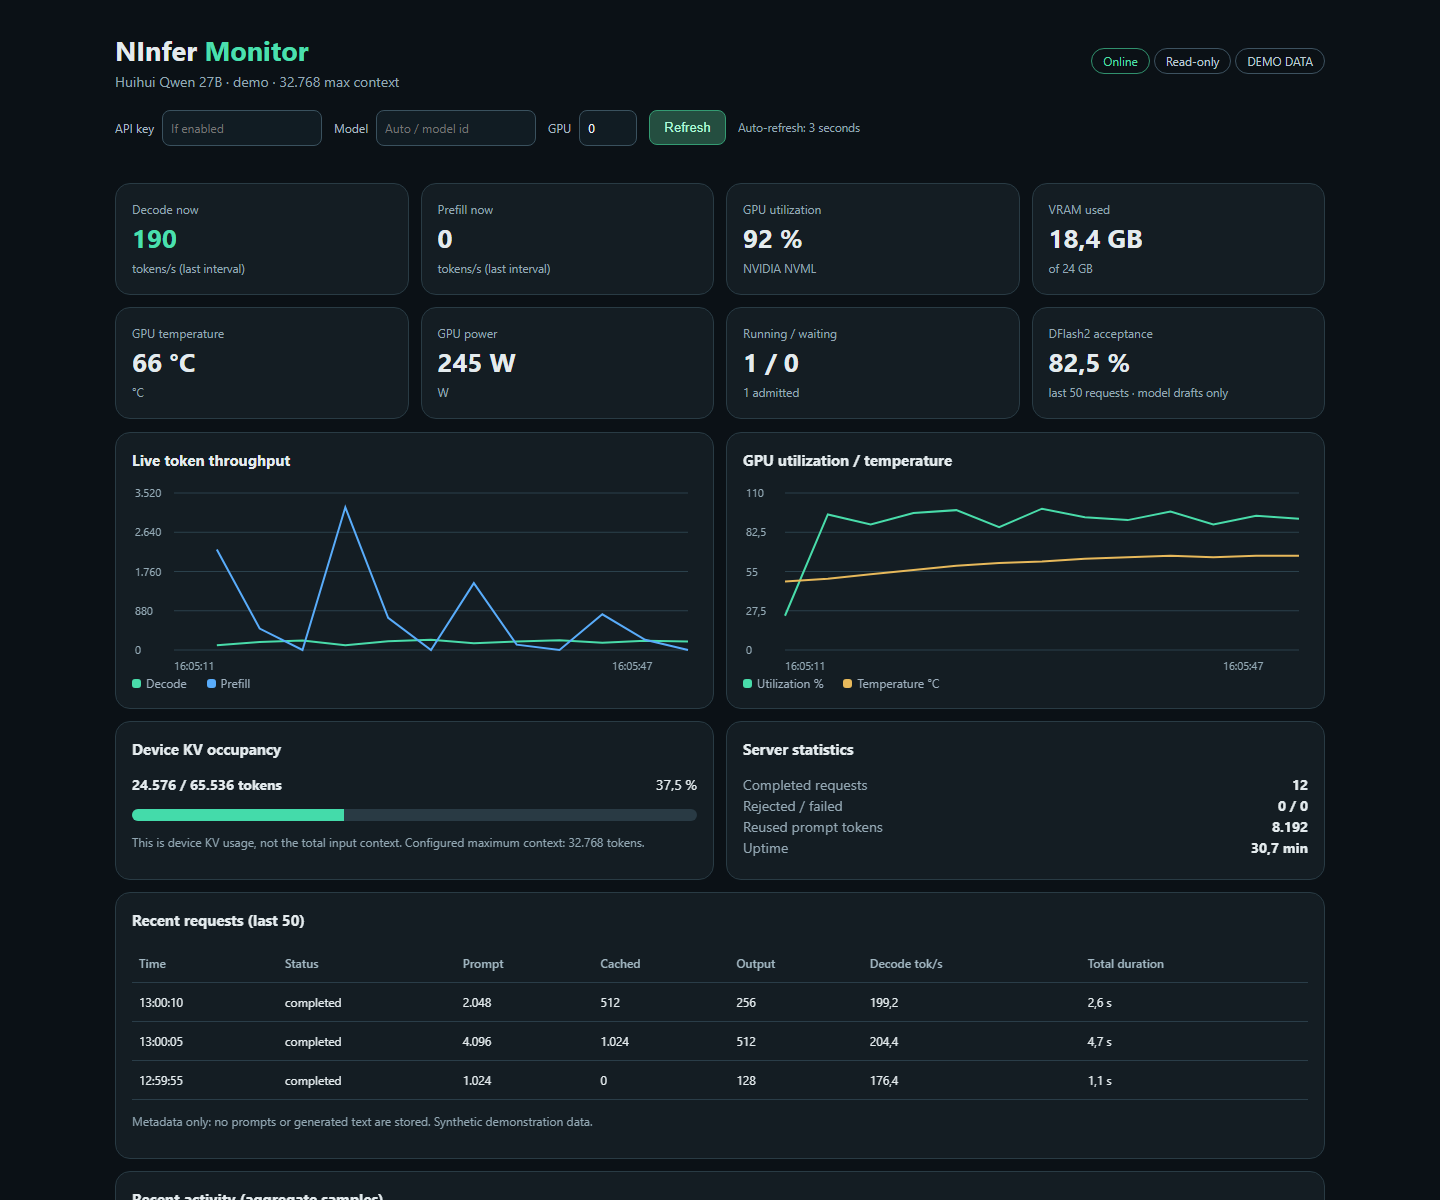
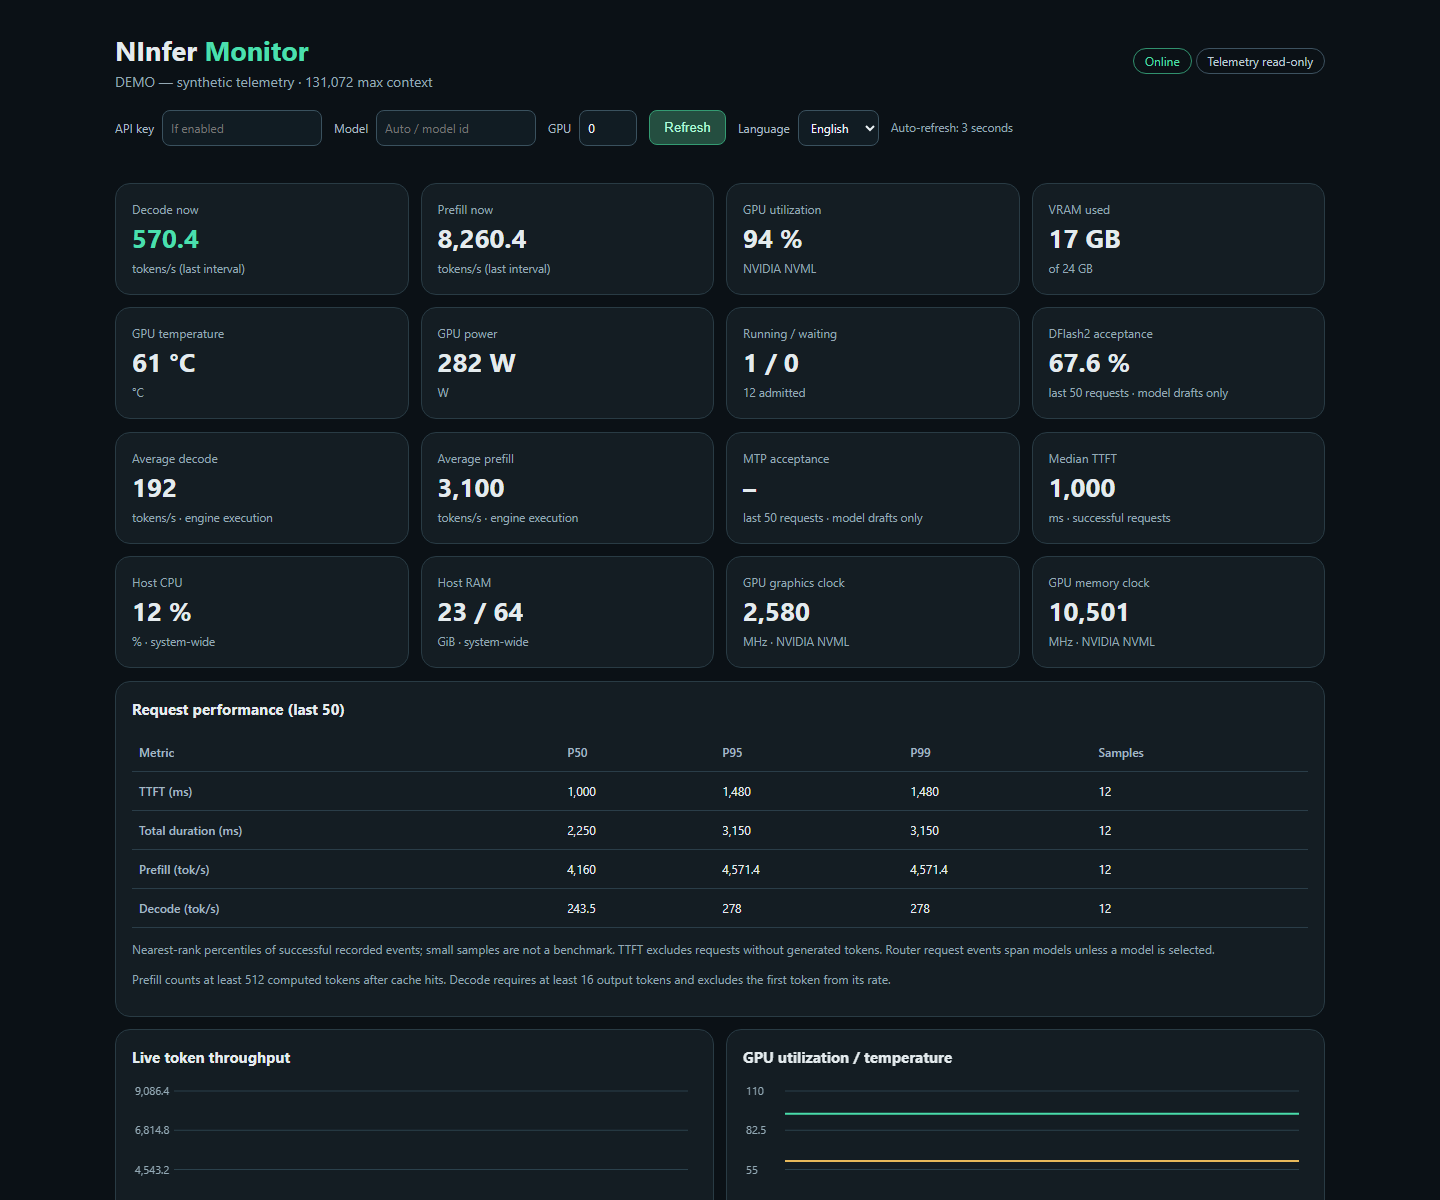
docs: align v0.1.8 model catalog, benchmarks and native monitor

diff --git a/README.md b/README.md
@@ -12,7 +12,7 @@
 
 **[Project website](https://spk-c.github.io/ninfer-all-rtx4090/)** · **[Download Windows binaries](https://github.com/spk-c/ninfer-all-rtx4090/releases)** · [RTX 4090 guide](docs/rtx4090.md) · [Built-in Monitor](#built-in-live-monitoring-dashboard) · [Model artifacts](#supported-models) · [Benchmarks](#rtx-4090-benchmarks) · [Build from source](#build-from-source-windows) · [FAQ](#rtx-4090-local-llm-faq) · [Upstream documentation](docs/README.md)
 
-**Start with a portable binary, no local CUDA compilation needed.** Recorded serving throughput for a Qwen3.8-27B IQ3_S model with DFlash2 on one RTX 4090: **146.6 tok/s median, 215.5 tok/s P90** across 1,831 completed requests. These are workload-specific observations, not guaranteed rates or a comparison with other inference engines. [Measurement details](#real-world-serving).
+**Start with the v0.1.8 portable binary, no local CUDA compilation needed.** Recorded serving throughput for a Qwen3.8-27B IQ3_S model with DFlash2 on one RTX 4090: **146.6 tok/s median, 215.5 tok/s P90** across 1,831 completed requests. These are workload-specific observations, not guaranteed rates or a comparison with other inference engines. [Measurement details](#real-world-serving).
 
 If you use NInfer-all RTX 4090 or want to follow its development, consider starring the repository and sharing your own reproducible results. [Watch releases](https://github.com/spk-c/ninfer-all-rtx4090/releases) · [Report an issue or benchmark](https://github.com/spk-c/ninfer-all-rtx4090/issues/new/choose).
 
@@ -23,14 +23,14 @@ If you use NInfer-all RTX 4090 or want to follow its development, consider starr
 | Native GPU target | Ada Lovelace, compute capability 8.9, native `sm_89` Windows x64 builds with CUDA 13.4 |
 | Local LLM serving | OpenAI- and Anthropic-compatible APIs, CLI and model-specific launch profiles |
 | Model families | Qwen3.5/3.6/3.8, Flash-Next, Ternary Bonsai 2/2.5, Gemma 4, Flint, DeepSeek-V4.1 and Inkling 2 via upstream |
-| Speculative decoding | DFlash2, MTP and other model-dependent draft backends; measured draft-width and prefill tuning |
+| Speculative decoding | DFlash2, DSpark, MTP and other model-dependent draft backends; measured draft-width and prefill tuning |
 | Quantization and memory | GGUF conversion, IQ3_S/IQ4_XS, quantized KV cache, hybrid prefix caching and model-dependent host/disk expert residency |
 | Built-in monitoring | Read-only browser dashboard, live token rates, NVIDIA GPU sensors, DFlash2 acceptance, KV occupancy and request metadata |
 | Engineering | Device calibration, CUDA Graph experiments, regression tests, raw benchmark evidence and reproducible builds |
 
 Model support is inherited from upstream; not every model or context fits in 24 GB VRAM or has been independently validated by this project. Use a compatible converted `.ninfer` artifact, not an arbitrary GGUF file.
 
-## Experimental Inkling 2 GSQ-RCO Rank-1 model
+## Inkling 2 Mini GSQ-RCO IQ3_S — experimental Rank-1 model
 
 The experimental fixed AtomicChat Rank-1 implementation preserves the original ISTA-DASLab GSQ-RCO IQ3_S weights and adds native adapter support for Inkling 2 on SM89.
 
@@ -41,11 +41,15 @@ The experimental fixed AtomicChat Rank-1 implementation preserves the original I
 
 A separate synthetic retrieval test recovered 3/3 keys at 250,006 input tokens. Results are workload-specific, not canonical completion-format HumanEval scores or a guarantee of general coding parity. Vision, tool calling, DSpark and CUDA Graphs have passed local smoke tests.
 
-- [Model repository on Hugging Face](https://huggingface.co/SPK1337/Inkling-2-Mini-Uncensored-GSQ-RCO-IQ3_S-NInfer-v3) — 12.08 GiB, staged for release; access depends on repository visibility.
-- [Implementation, compatibility requirements and benchmark details](docs/inkling2-rank1-model-card-draft.md).
+- [Model repository on Hugging Face](https://huggingface.co/SPK1337/Inkling-2-Mini-Uncensored-GSQ-RCO-IQ3_S-NInfer-v3) — 12.08 GiB, publicly available; experimental Rank-1 model.
+- [Current compatibility requirements, provenance and benchmark methodology](https://huggingface.co/SPK1337/Inkling-2-Mini-Uncensored-GSQ-RCO-IQ3_S-NInfer-v3).
 - [Runtime integration and tests](https://github.com/spk-c/ninfer-all-rtx4090/pull/66).
 
-The guarded model requires a runtime recognizing `inkling2_rank1_v1`. Existing stable releases do not support this model; use the matching experimental build until a compatible release is available.
+The guarded model requires a runtime recognizing `inkling2_rank1_v1`. Use the [regular v0.1.8 Windows release](https://github.com/spk-c/ninfer-all-rtx4090/releases/tag/rtx4090-v0.1.8) or a later compatible runtime. Rank-1 remains experimental, with single-GPU device-resident experts only.
+
+![Inkling 2 decoder benchmark](docs/images/benchmarks/inkling-public-bench.svg)
+
+One fixed 30-token coding prompt, 512 committed tokens, RK8V4: no draft 108.3, DSpark K3 240.7 and DFlash2 K7 302.2 tok/s, identical outputs on that prompt. Historical development measurements, not general throughput or a new exact-release benchmark. [Full model card](https://huggingface.co/SPK1337/Inkling-2-Mini-Uncensored-GSQ-RCO-IQ3_S-NInfer-v3).
 
 ## Built-in Live Monitoring Dashboard
 
@@ -53,7 +57,7 @@ The guarded model requires a runtime recognizing `inkling2_rank1_v1`. Existing s
 
 [![NInfer Monitor desktop dashboard: GPU telemetry, token throughput, DFlash2 acceptance, KV occupancy and recent request events; synthetic demonstration data](docs/images/monitor/monitor-desktop.png)](docs/images/monitor/monitor-desktop.png)
 
-*Screenshot of the actual v0.1.4 dashboard rendered with synthetic demonstration data. Values are illustrative, not live readings or benchmark results. [Full-size screenshot](docs/images/monitor/monitor-desktop.png) · [Mobile screenshot](docs/images/monitor/monitor-mobile.png).*
+*Screenshot of the actual v0.1.8 native dashboard rendered with synthetic demonstration data. Values are illustrative, not live readings or benchmark results. [Full-size screenshot](docs/images/monitor/monitor-desktop.png) · [Mobile screenshot](docs/images/monitor/monitor-mobile.png).*
 
 | Monitoring area | Available metrics |
 | --- | --- |
@@ -70,7 +74,7 @@ Start `ninfer-serve` normally and open the dashboard in your browser:
 http://127.0.0.1:8080/monitor
 ```
 
-Replace `8080` with your configured `--port` (for example `8099`). If API-key authentication is enabled, enter the key in the dashboard password field. The dashboard is read-only and refreshes every three seconds. Keep the server bound to localhost unless remote access is deliberately secured. Rates are interval-based server counters, not standardized benchmark measurements; unavailable NVML sensors are displayed as a dash.
+Replace `8080` with your configured `--port` (for example `8099`). If API-key authentication is enabled, enter the key in the dashboard password field. Telemetry is read-only and refreshes every three seconds. The optional test chat sends a request only when explicitly submitted. Keep the server bound to localhost unless remote access is deliberately secured. Rates are interval-based server counters, not standardized benchmark measurements; unavailable NVML sensors are displayed as a dash.
 
 [Technical documentation](docs/monitor-dashboard.md) · [English feature page](https://spk-c.github.io/ninfer-all-rtx4090/monitor.html) · [Deutsche Funktionsseite](https://spk-c.github.io/ninfer-all-rtx4090/monitor-de.html) · [Optional Python monitor](tools/monitor/README.md)
 
@@ -148,7 +152,7 @@ RK4V4, no N-gram during the controlled Engine sweep (two repeats per cell):
 | 128K | 206.39 tok/s | 240.60 tok/s |
 | 176128 | 214.87 tok/s | 263.93 tok/s |
 
-![RTX 4090 long-context draft-width sweep](docs/images/benchmarks/rtx4090-v014-long-context.svg)
+![RTX 4090 long-context draft-width sweep](docs/images/benchmarks/qwen-public-bench.svg)
 
 Separate exact-rename tests with ~21.4K-token source prompts reached 568.1 tok/s
 mean decode with N-gram 15 vs 256.7 without (4/6 exact outputs in both arms).
@@ -162,10 +166,17 @@ not general serving rates or cross-engine comparisons. Experimental graphs and c
 [Measured K7 preset](configs/rtx4090-huihui-dflash2-k7.ini) ·
 [Raw numerical results](profiles/bench/rtx4090-v014-long-coding-20261126/)
 
+### Swift 1.5 HTTP decode (October 19)
+
+![Swift 1.5 single-request decode benchmark](docs/images/benchmarks/swift-public-bench.svg)
+
+One observed request per length with 2,048 output tokens; not comparable to the separate Engine or Inkling benchmarks. [Full report](https://huggingface.co/SPK1337/Huihui-Qwen3.8-27B-Swift1.5-Abliterated-IQ3S-DFlash2-NInfer/blob/main/BENCHMARK.md). [Machine-readable chart data](docs/performance/public-benchmarks-v018.json).
+
 ## Release and development status
 
 - **v0.1.3:** published portable Windows archive verified on a real RTX 4090 with two successful real-model smoke requests. [Verification evidence](docs/releases/rtx4090-v0.1.3-gpu-verification.md).
-- **v0.1.4:** [latest stable Windows release (real GPU smoke verified)](https://github.com/spk-c/ninfer-all-rtx4090/releases/tag/rtx4090-v0.1.4), with upstream sync, SM89 architecture backports, opt-in flat draft/target graphs, attention buckets, bounded startup calibration and restricted live KV-pressure replay. [Exact release verification](docs/releases/rtx4090-v0.1.4-gpu-verification.md). See [PR #44](https://github.com/spk-c/ninfer-all-rtx4090/pull/44) and the [release pipeline](https://github.com/spk-c/ninfer-all-rtx4090/actions/workflows/rtx4090-auto-release.yml).
+- **v0.1.8:** [latest regular Windows release](https://github.com/spk-c/ninfer-all-rtx4090/releases/tag/rtx4090-v0.1.8), native SM89 CUDA 13.4, exact extracted archive smoke verified with Inkling 2 DFlash2 K7, DSpark K3 and Qwen DFlash2 K7. Source `71b5582`; no exhaustive or long-duration qualification implied.
+- **v0.1.4:** [previous stable Windows release (real GPU smoke verified)](https://github.com/spk-c/ninfer-all-rtx4090/releases/tag/rtx4090-v0.1.4), with upstream sync, SM89 architecture backports, opt-in flat draft/target graphs, attention buckets, bounded startup calibration and restricted live KV-pressure replay. [Exact release verification](docs/releases/rtx4090-v0.1.4-gpu-verification.md). See [PR #44](https://github.com/spk-c/ninfer-all-rtx4090/pull/44) and the [release pipeline](https://github.com/spk-c/ninfer-all-rtx4090/actions/workflows/rtx4090-auto-release.yml).
 - Experimental graph, recovery and arithmetic paths remain opt-in. A successful hosted build is not real-GPU validation; a prerelease requires independent hardware qualification before stable promotion.
 
 ## Build from source (Windows)

diff --git a/docs/monitor-dashboard.md b/docs/monitor-dashboard.md
@@ -1,6 +1,6 @@
 # Built-in NInfer Monitor
 
-The native read-only dashboard is compiled into every ninfer-serve build, including
+The native dashboard is compiled into every ninfer-serve build, including
 Windows builds without NINFER_WEBUI_DIR. No separate Python process, downloaded
 assets, CDN or external web service is needed.
 
@@ -8,11 +8,13 @@ assets, CDN or external web service is needed.
 
 [![NInfer Monitor desktop dashboard with synthetic demonstration data](images/monitor/monitor-desktop.png)](images/monitor/monitor-desktop.png)
 
-The screenshot uses the actual v0.1.4 dashboard with synthetic demonstration data,
+The screenshot uses the actual v0.1.8 native dashboard with synthetic demonstration data,
 not production telemetry or benchmark measurements.
 [Mobile view (390 px)](images/monitor/monitor-mobile.png) ·
 [English overview](https://spk-c.github.io/ninfer-all-rtx4090/monitor.html) ·
 [Deutsche Übersicht](https://spk-c.github.io/ninfer-all-rtx4090/monitor-de.html).
+
+The new screenshots use an isolated synthetic telemetry fixture and no production model or prompt data. Telemetry remains read-only; optional test chat sends requests explicitly.
 
 ## Open
 

diff --git a/docs/inkling2-rank1-model-card-draft.md b/docs/inkling2-rank1-model-card-draft.md
@@ -12,6 +12,9 @@ tags:
 - dspark
 ---
 
+> **Publication update (2026-11-28):** The guarded artifact is [public on Hugging Face](https://huggingface.co/SPK1337/Inkling-2-Mini-Uncensored-GSQ-RCO-IQ3_S-NInfer-v3). The [regular NInfer RTX 4090 v0.1.8 release](https://github.com/spk-c/ninfer-all-rtx4090/releases/tag/rtx4090-v0.1.8) includes the compatible runtime and passed real portable GPU smoke tests. Rank-1 remains experimental. The historical development notes below retain their original scope; use the current Model Card for published status and final HumanEval results.
+
+
 # Inkling 2 Mini GSQ-RCO IQ3_S + AtomicChat Rank-1 (experimental draft)
 
 **Not a public release. License/provenance and full runtime compatibility remain release gates.**

diff --git a/docs/inkling2-atomicchat-rank1-experiment.md b/docs/inkling2-atomicchat-rank1-experiment.md
@@ -1,3 +1,5 @@
+> **Publication update (2026-11-28):** The guarded artifact is [public on Hugging Face](https://huggingface.co/SPK1337/Inkling-2-Mini-Uncensored-GSQ-RCO-IQ3_S-NInfer-v3). The [regular NInfer RTX 4090 v0.1.8 release](https://github.com/spk-c/ninfer-all-rtx4090/releases/tag/rtx4090-v0.1.8) includes the compatible runtime and passed real portable GPU smoke tests. Rank-1 remains experimental. The historical development notes below retain their original scope; use the current Model Card for published status and final HumanEval results.
+
 # Experimental Inkling 2 rank-one adapter reference
 
 Scope: CPU numerical oracle only, not a released model or native serving support.
